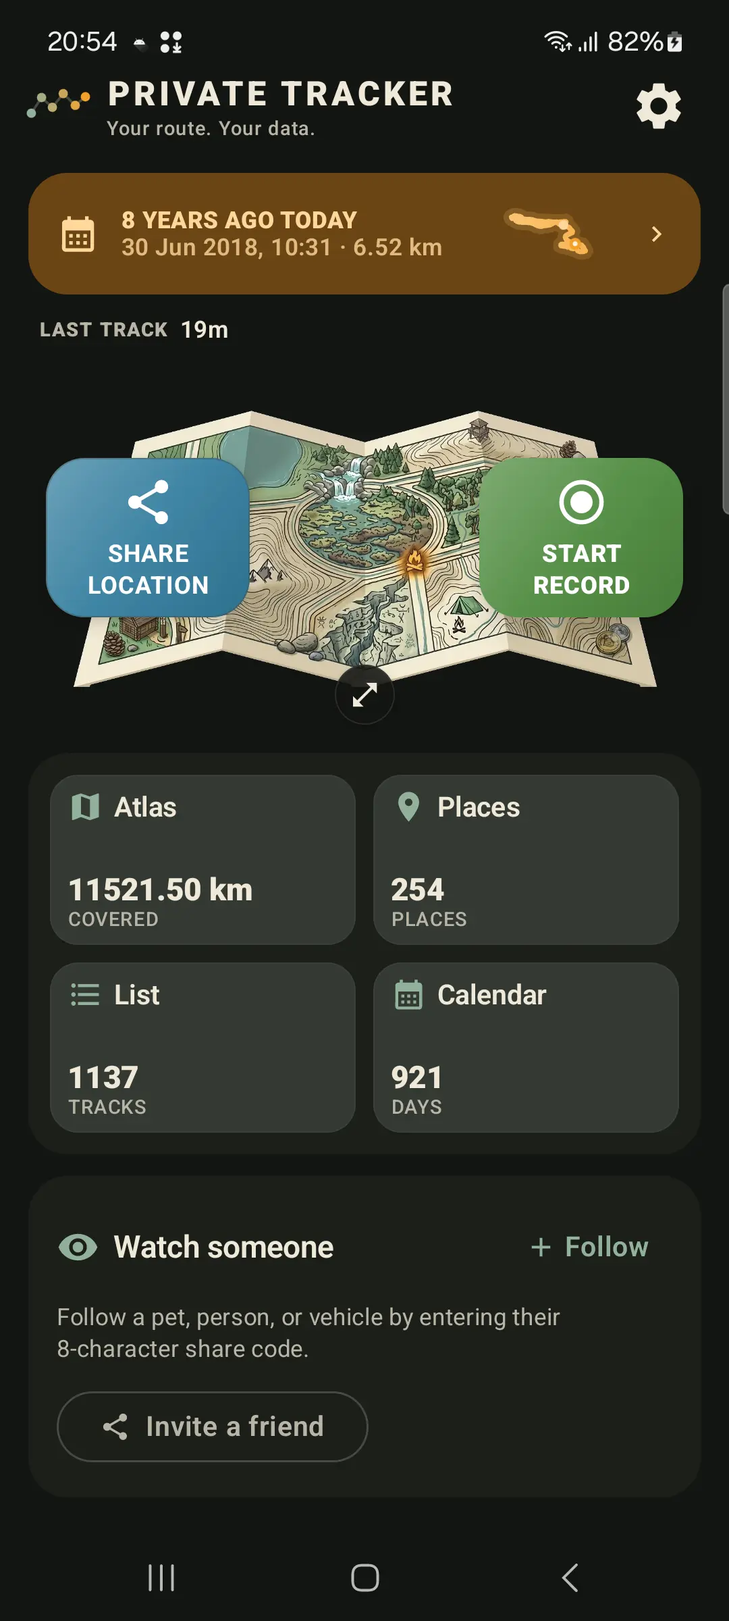
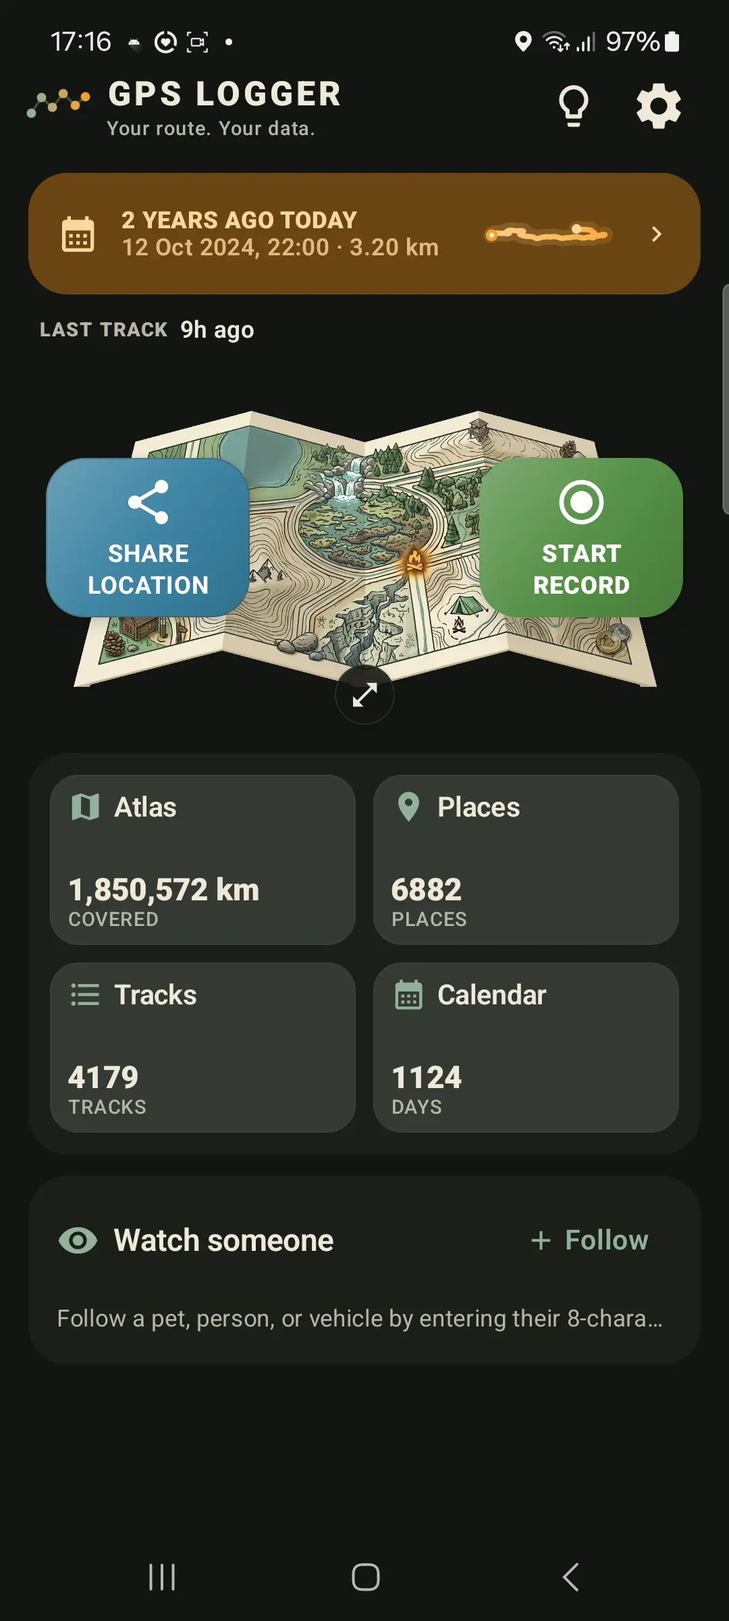
Homepage stills: localized home, day, atlas, places, and July
Day Story is the Tokyo day with photos on the route. The July calendar
replaces the recording frame on the homepages; recording guides and live
share keep the shared shots. The empty Watch map stays off the site.

diff --git a/hi/index.html b/hi/index.html
@@ -130,12 +130,13 @@
         </div>
         <div class="hero-visual">
           <div class="hero-phone">
-            <img src="../assets/ss-day-story.webp" alt="GPS Logger daily route timeline" width="1080" height="2400">
+            <img src="../assets/hi/ss-day-story.webp" alt="GPS Logger Day Story, Tokyo के एक दिन की रूट, stops और फ़ोटो" width="1080" height="2400">
             <div class="proof">
               <p>Day Story</p>
               <ul>
                 <li>Map + daily timeline</li>
                 <li>Stops, moves, moments</li>
+                <li>रूट पर फ़ोटो</li>
                 <li>Saved tracks से बना</li>
               </ul>
             </div>
@@ -278,12 +279,21 @@
           <p class="eyebrow">ऐप की असली स्क्रीन</p>
           <h2 class="display">रोज़मर्रा की ज़िंदगी में GPS Logger पर एक नज़दीकी नज़र।</h2>
         </div>
+        <figure class="device device-lead" data-reveal>
+          <div class="frame">
+            <picture>
+              <source media="(prefers-reduced-motion: reduce)" srcset="../assets/globe-hike-poster.webp">
+              <img src="../assets/globe-hike.webp" alt="ग्लोब सेव की गई यात्राओं से घूमता है, एक रिकॉर्ड की हाइक खोलता है, और स्थिति उसकी ऊँचाई के साथ चलती है" width="540" height="1200" loading="lazy" decoding="async">
+            </picture>
+          </div>
+          <figcaption>ग्लोब — घुमाकर हाइक तक, फिर उसकी चढ़ाई</figcaption>
+        </figure>
         <div class="screens">
-          <figure class="device" data-reveal><div class="frame"><img src="../assets/ss-home.webp" alt="होम स्क्रीन, रिकॉर्ड करने के लिए तैयार" loading="lazy"></div><figcaption>होम — रिकॉर्ड करने के लिए एक टैप</figcaption></figure>
-          <figure class="device" data-reveal><div class="frame"><img src="../assets/ss-recording.webp" alt="लाइव मैप के साथ एक्टिव रिकॉर्डिंग" loading="lazy"></div><figcaption>रिकॉर्डिंग — लाइव मैप और आँकड़े</figcaption></figure>
-          <figure class="device" data-reveal><div class="frame"><img src="../assets/ss-day-story.webp" alt="Daily route timeline" loading="lazy"></div><figcaption>Day Story — stops और movements</figcaption></figure>
-          <figure class="device" data-reveal><div class="frame"><img src="../assets/ss-atlas.webp" alt="लाइफटाइम जर्नी मैप" loading="lazy"></div><figcaption>एटलस — जीवन भर के रूट</figcaption></figure>
-          <figure class="device" data-reveal><div class="frame"><img src="../assets/ss-places.webp" alt="जगहों का एटलस" loading="lazy"></div><figcaption>जगहें — वे स्थान जहाँ आप बार-बार जाते हैं</figcaption></figure>
+          <figure class="device" data-reveal><div class="frame"><img src="../assets/hi/ss-home.webp" alt="होम स्क्रीन, रिकॉर्ड करने के लिए तैयार" loading="lazy"></div><figcaption>होम — रिकॉर्ड करने के लिए एक टैप</figcaption></figure>
+          <figure class="device" data-reveal><div class="frame"><img src="../assets/hi/ss-calendar.webp" alt="जुलाई का कैलेंडर, गतिविधि के रंग और देश के झंडे" loading="lazy"></div><figcaption>कैलेंडर — एक महीने के रूट</figcaption></figure>
+          <figure class="device" data-reveal><div class="frame"><img src="../assets/hi/ss-day-story.webp" alt="Tokyo Day Story, रूट, stops और फ़ोटो" loading="lazy"></div><figcaption>Day Story — रूट पर फ़ोटो</figcaption></figure>
+          <figure class="device" data-reveal><div class="frame"><img src="../assets/hi/ss-atlas.webp" alt="लाइफटाइम जर्नी मैप" loading="lazy"></div><figcaption>एटलस — जीवन भर के रूट</figcaption></figure>
+          <figure class="device" data-reveal><div class="frame"><img src="../assets/hi/ss-places.webp" alt="देशों की सूची, ऊपर Japan, Ireland और United Kingdom" loading="lazy"></div><figcaption>जगहें — देश जहाँ आप लौटते हैं</figcaption></figure>
           <figure class="device" data-reveal><div class="frame"><img src="../assets/ss-share.webp" alt="लाइव शेयरिंग कंट्रोल्स" loading="lazy"></div><figcaption>लाइव शेयरिंग — एक कोड जिसे आप कंट्रोल करते हैं</figcaption></figure>
         </div>
       </div>

diff --git a/ja/index.html b/ja/index.html
@@ -131,12 +131,13 @@
         </div>
         <div class="hero-visual">
           <div class="hero-phone">
-            <img src="../assets/ss-day-story.webp" alt="GPS Logger daily route timeline" width="1080" height="2400">
+            <img src="../assets/ja/ss-day-story.webp" alt="東京のある日の1日の記録。ルート、停止、ルート上の写真" width="1080" height="2400">
             <div class="proof">
               <p>1日の記録</p>
               <ul>
                 <li>地図 + 日別タイムライン</li>
                 <li>停止・移動・出来事</li>
+                <li>ルート上の写真</li>
                 <li>保存トラックから作成</li>
               </ul>
             </div>
@@ -284,12 +285,21 @@
           <p class="eyebrow">実際のアプリ画面</p>
           <h2 class="display">日常で使うGPS Loggerの様子。</h2>
         </div>
+        <figure class="device device-lead" data-reveal>
+          <div class="frame">
+            <picture>
+              <source media="(prefers-reduced-motion: reduce)" srcset="../assets/globe-hike-poster.webp">
+              <img src="../assets/globe-hike.webp" alt="地球儀が保存した旅を回り、記録したハイキングを開き、位置がその標高に沿って動く" width="540" height="1200" loading="lazy" decoding="async">
+            </picture>
+          </div>
+          <figcaption>地球儀 — 回してハイキングへ、それからその上り</figcaption>
+        </figure>
         <div class="screens">
-          <figure class="device" data-reveal><div class="frame"><img src="../assets/ss-home.webp" alt="ホーム画面、記録準備完了" loading="lazy"></div><figcaption>ホーム — 1タップで記録開始</figcaption></figure>
-          <figure class="device" data-reveal><div class="frame"><img src="../assets/ss-recording.webp" alt="記録中のライブマップ" loading="lazy"></div><figcaption>記録中 — ライブマップと統計</figcaption></figure>
-          <figure class="device" data-reveal><div class="frame"><img src="../assets/ss-day-story.webp" alt="Daily route timeline" loading="lazy"></div><figcaption>1日の記録 — 停止と移動</figcaption></figure>
-          <figure class="device" data-reveal><div class="frame"><img src="../assets/ss-atlas.webp" alt="ライフタイム・ジャーニー・マップ" loading="lazy"></div><figcaption>アトラス — 生涯のルート</figcaption></figure>
-          <figure class="device" data-reveal><div class="frame"><img src="../assets/ss-places.webp" alt="お気に入りの場所のアトラス" loading="lazy"></div><figcaption>場所 — 繰り返し訪れるスポット</figcaption></figure>
+          <figure class="device" data-reveal><div class="frame"><img src="../assets/ja/ss-home.webp" alt="ホーム画面、記録準備完了" loading="lazy"></div><figcaption>ホーム — 1タップで記録開始</figcaption></figure>
+          <figure class="device" data-reveal><div class="frame"><img src="../assets/ja/ss-calendar.webp" alt="7月のカレンダー。アクティビティの色と国旗" loading="lazy"></div><figcaption>カレンダー — ひと月のルート</figcaption></figure>
+          <figure class="device" data-reveal><div class="frame"><img src="../assets/ja/ss-day-story.webp" alt="東京の1日の記録。ルート、停止、写真" loading="lazy"></div><figcaption>1日の記録 — ルート上の写真</figcaption></figure>
+          <figure class="device" data-reveal><div class="frame"><img src="../assets/ja/ss-atlas.webp" alt="ライフタイム・ジャーニー・マップ" loading="lazy"></div><figcaption>アトラス — 生涯のルート</figcaption></figure>
+          <figure class="device" data-reveal><div class="frame"><img src="../assets/ja/ss-places.webp" alt="訪れた国。先頭は日本、アイルランド、イギリス" loading="lazy"></div><figcaption>場所 — 何度も訪れる国</figcaption></figure>
           <figure class="device" data-reveal><div class="frame"><img src="../assets/ss-share.webp" alt="ライブ共有コントロール" loading="lazy"></div><figcaption>ライブ共有 — あなたが管理するコード</figcaption></figure>
         </div>
       </div>

diff --git a/pt/index.html b/pt/index.html
@@ -131,12 +131,13 @@
         </div>
         <div class="hero-visual">
           <div class="hero-phone">
-            <img src="../assets/ss-day-story.webp" alt="GPS Logger daily route timeline" width="1080" height="2400">
+            <img src="../assets/pt/ss-day-story.webp" alt="História do dia do GPS Logger em Tóquio, com a rota, as paradas e as fotos" width="1080" height="2400">
             <div class="proof">
               <p>História do dia</p>
               <ul>
                 <li>Mapa + linha do tempo</li>
                 <li>Paradas, trajetos, momentos</li>
+                <li>Fotos na rota</li>
                 <li>Dos trajetos salvos</li>
               </ul>
             </div>
@@ -285,12 +286,21 @@
           <p class="eyebrow">Ecrãs reais da app</p>
           <h2 class="display">Um olhar mais atento ao GPS Logger no dia a dia.</h2>
         </div>
+        <figure class="device device-lead" data-reveal>
+          <div class="frame">
+            <picture>
+              <source media="(prefers-reduced-motion: reduce)" srcset="../assets/globe-hike-poster.webp">
+              <img src="../assets/globe-hike.webp" alt="O globo gira pelos trajetos salvos, abre uma trilha gravada e a posição percorre o perfil de elevação" width="540" height="1200" loading="lazy" decoding="async">
+            </picture>
+          </div>
+          <figcaption>Globo — gire até uma trilha, depois a subida</figcaption>
+        </figure>
         <div class="screens">
-          <figure class="device" data-reveal><div class="frame"><img src="../assets/ss-home.webp" alt="Tela inicial, pronto para gravar" loading="lazy"></div><figcaption>Início — um toque para gravar</figcaption></figure>
-          <figure class="device" data-reveal><div class="frame"><img src="../assets/ss-recording.webp" alt="Gravação ativa com mapa em tempo real" loading="lazy"></div><figcaption>A gravar — mapa e estatísticas em tempo real</figcaption></figure>
-          <figure class="device" data-reveal><div class="frame"><img src="../assets/ss-day-story.webp" alt="Daily route timeline" loading="lazy"></div><figcaption>História do dia — paradas e movimentos</figcaption></figure>
-          <figure class="device" data-reveal><div class="frame"><img src="../assets/ss-atlas.webp" alt="Mapa de jornada de uma vida inteira" loading="lazy"></div><figcaption>Atlas — uma vida inteira de rotas</figcaption></figure>
-          <figure class="device" data-reveal><div class="frame"><img src="../assets/ss-places.webp" alt="Atlas de lugares" loading="lazy"></div><figcaption>Lugares — locais onde você volta sempre</figcaption></figure>
+          <figure class="device" data-reveal><div class="frame"><img src="../assets/pt/ss-home.webp" alt="Tela inicial, pronto para gravar" loading="lazy"></div><figcaption>Início — um toque para gravar</figcaption></figure>
+          <figure class="device" data-reveal><div class="frame"><img src="../assets/pt/ss-calendar.webp" alt="Calendário de julho com dias coloridos e bandeiras dos países" loading="lazy"></div><figcaption>Calendário — um mês de rotas</figcaption></figure>
+          <figure class="device" data-reveal><div class="frame"><img src="../assets/pt/ss-day-story.webp" alt="História do dia em Tóquio, com a rota, as paradas e as fotos" loading="lazy"></div><figcaption>História do dia — fotos na rota</figcaption></figure>
+          <figure class="device" data-reveal><div class="frame"><img src="../assets/pt/ss-atlas.webp" alt="Mapa de jornada de uma vida inteira" loading="lazy"></div><figcaption>Atlas — uma vida inteira de rotas</figcaption></figure>
+          <figure class="device" data-reveal><div class="frame"><img src="../assets/pt/ss-places.webp" alt="Países visitados, com Japão, Irlanda e Reino Unido no topo" loading="lazy"></div><figcaption>Lugares — países a que você volta</figcaption></figure>
           <figure class="device" data-reveal><div class="frame"><img src="../assets/ss-share.webp" alt="Controles de compartilhamento em tempo real" loading="lazy"></div><figcaption>Compartilhamento em tempo real — um código que você controla</figcaption></figure>
         </div>
       </div>

diff --git a/es/index.html b/es/index.html
@@ -131,12 +131,13 @@
         </div>
         <div class="hero-visual">
           <div class="hero-phone">
-            <img src="../assets/ss-day-story.webp" alt="GPS Logger daily route timeline" width="1080" height="2400">
+            <img src="../assets/es/ss-day-story.webp" alt="Historia del día de GPS Logger en Tokio, con la ruta, las paradas y las fotos" width="1080" height="2400">
             <div class="proof">
               <p>Historia del día</p>
               <ul>
                 <li>Mapa + timeline diaria</li>
                 <li>Paradas, rutas, momentos</li>
+                <li>Fotos en la ruta</li>
                 <li>Desde tracks guardados</li>
               </ul>
             </div>
@@ -321,12 +322,21 @@
           <p class="eyebrow">Pantallas reales de la aplicación</p>
           <h2 class="display">Un vistazo más cercano a GPS Logger en el uso diario.</h2>
         </div>
+        <figure class="device device-lead" data-reveal>
+          <div class="frame">
+            <picture>
+              <source media="(prefers-reduced-motion: reduce)" srcset="../assets/globe-hike-poster.webp">
+              <img src="../assets/globe-hike.webp" alt="El globo gira por los viajes guardados, abre una caminata grabada y la posición se mueve por su perfil de elevación" width="540" height="1200" loading="lazy" decoding="async">
+            </picture>
+          </div>
+          <figcaption>Globo — gira hasta una caminata, luego su subida</figcaption>
+        </figure>
         <div class="screens">
-          <figure class="device" data-reveal><div class="frame"><img src="../assets/ss-home.webp" alt="Pantalla de inicio, lista para registrar" loading="lazy"></div><figcaption>Inicio — un toque para registrar</figcaption></figure>
-          <figure class="device" data-reveal><div class="frame"><img src="../assets/ss-recording.webp" alt="Grabación activa con mapa en vivo" loading="lazy"></div><figcaption>Grabando — mapa en vivo y estadísticas</figcaption></figure>
-          <figure class="device" data-reveal><div class="frame"><img src="../assets/ss-day-story.webp" alt="Daily route timeline" loading="lazy"></div><figcaption>Historia del día — paradas y movimientos</figcaption></figure>
-          <figure class="device" data-reveal><div class="frame"><img src="../assets/ss-atlas.webp" alt="Mapa de viajes de por vida" loading="lazy"></div><figcaption>Atlas — toda una vida de rutas</figcaption></figure>
-          <figure class="device" data-reveal><div class="frame"><img src="../assets/ss-places.webp" alt="Atlas de lugares" loading="lazy"></div><figcaption>Lugares — sitios a los que vuelves</figcaption></figure>
+          <figure class="device" data-reveal><div class="frame"><img src="../assets/es/ss-home.webp" alt="Pantalla de inicio, lista para registrar" loading="lazy"></div><figcaption>Inicio — un toque para registrar</figcaption></figure>
+          <figure class="device" data-reveal><div class="frame"><img src="../assets/es/ss-calendar.webp" alt="Calendario de julio con días en color y banderas de país" loading="lazy"></div><figcaption>Calendario — un mes de rutas</figcaption></figure>
+          <figure class="device" data-reveal><div class="frame"><img src="../assets/es/ss-day-story.webp" alt="Historia del día en Tokio, con la ruta, las paradas y las fotos" loading="lazy"></div><figcaption>Historia del día — fotos en la ruta</figcaption></figure>
+          <figure class="device" data-reveal><div class="frame"><img src="../assets/es/ss-atlas.webp" alt="Mapa de viajes de por vida" loading="lazy"></div><figcaption>Atlas — toda una vida de rutas</figcaption></figure>
+          <figure class="device" data-reveal><div class="frame"><img src="../assets/es/ss-places.webp" alt="Países visitados, con Japón, Irlanda y el Reino Unido arriba" loading="lazy"></div><figcaption>Lugares — países a los que vuelves</figcaption></figure>
           <figure class="device" data-reveal><div class="frame"><img src="../assets/ss-share.webp" alt="Controles para compartir en vivo" loading="lazy"></div><figcaption>Compartir en vivo — tu código</figcaption></figure>
         </div>
       </div>

diff --git a/fr/index.html b/fr/index.html
@@ -131,12 +131,13 @@
         </div>
         <div class="hero-visual">
           <div class="hero-phone">
-            <img src="../assets/ss-day-story.webp" alt="GPS Logger daily route timeline" width="1080" height="2400">
+            <img src="../assets/fr/ss-day-story.webp" alt="Récit du jour GPS Logger à Tokyo, avec le parcours, les arrêts et les photos" width="1080" height="2400">
             <div class="proof">
               <p>Récit du jour</p>
               <ul>
                 <li>Carte + timeline du jour</li>
                 <li>Arrêts, trajets, moments</li>
+                <li>Photos sur le parcours</li>
                 <li>Depuis les traces sauvées</li>
               </ul>
             </div>
@@ -321,12 +322,21 @@
           <p class="eyebrow">Captures d'écran</p>
           <h2 class="display">Un aperçu de GPS Logger au quotidien.</h2>
         </div>
+        <figure class="device device-lead" data-reveal>
+          <div class="frame">
+            <picture>
+              <source media="(prefers-reduced-motion: reduce)" srcset="../assets/globe-hike-poster.webp">
+              <img src="../assets/globe-hike.webp" alt="Le globe tourne à travers les trajets enregistrés, ouvre une randonnée, puis la position suit son profil d’altitude" width="540" height="1200" loading="lazy" decoding="async">
+            </picture>
+          </div>
+          <figcaption>Globe — un tour jusqu’à une randonnée, puis sa montée</figcaption>
+        </figure>
         <div class="screens">
-          <figure class="device" data-reveal><div class="frame"><img src="../assets/ss-home.webp" alt="Écran d'accueil, prêt à enregistrer" loading="lazy"></div><figcaption>Accueil — un clic pour enregistrer</figcaption></figure>
-          <figure class="device" data-reveal><div class="frame"><img src="../assets/ss-recording.webp" alt="Enregistrement actif avec carte en direct" loading="lazy"></div><figcaption>Enregistrement — carte et stats</figcaption></figure>
-          <figure class="device" data-reveal><div class="frame"><img src="../assets/ss-day-story.webp" alt="Daily route timeline" loading="lazy"></div><figcaption>Récit du jour — arrêts et déplacements</figcaption></figure>
-          <figure class="device" data-reveal><div class="frame"><img src="../assets/ss-atlas.webp" alt="Carte de voyage à vie" loading="lazy"></div><figcaption>Atlas — toute une vie de parcours</figcaption></figure>
-          <figure class="device" data-reveal><div class="frame"><img src="../assets/ss-places.webp" alt="Atlas des lieux" loading="lazy"></div><figcaption>Lieux — les endroits où vous revenez</figcaption></figure>
+          <figure class="device" data-reveal><div class="frame"><img src="../assets/fr/ss-home.webp" alt="Écran d'accueil, prêt à enregistrer" loading="lazy"></div><figcaption>Accueil — un clic pour enregistrer</figcaption></figure>
+          <figure class="device" data-reveal><div class="frame"><img src="../assets/fr/ss-calendar.webp" alt="Calendrier de juillet, jours colorés et drapeaux des pays" loading="lazy"></div><figcaption>Calendrier — un mois de parcours</figcaption></figure>
+          <figure class="device" data-reveal><div class="frame"><img src="../assets/fr/ss-day-story.webp" alt="Récit du jour à Tokyo, avec le parcours, les arrêts et les photos" loading="lazy"></div><figcaption>Récit du jour — les photos du parcours</figcaption></figure>
+          <figure class="device" data-reveal><div class="frame"><img src="../assets/fr/ss-atlas.webp" alt="Carte de voyage à vie" loading="lazy"></div><figcaption>Atlas — toute une vie de parcours</figcaption></figure>
+          <figure class="device" data-reveal><div class="frame"><img src="../assets/fr/ss-places.webp" alt="Pays visités, Japon, Irlande et Royaume-Uni en tête" loading="lazy"></div><figcaption>Lieux — les pays où vous revenez</figcaption></figure>
           <figure class="device" data-reveal><div class="frame"><img src="../assets/ss-share.webp" alt="Contrôles de partage en direct" loading="lazy"></div><figcaption>Partage — votre code</figcaption></figure>
         </div>
       </div>

diff --git a/de/index.html b/de/index.html
@@ -143,12 +143,13 @@
         </div>
         <div class="hero-visual">
           <div class="hero-phone">
-            <img src="../assets/ss-day-story.webp" alt="GPS Logger daily route timeline" width="1080" height="2400">
+            <img src="../assets/de/ss-day-story.webp" alt="GPS Logger Tagesverlauf eines Tokio-Tags mit Route, Stopps und Fotos" width="1080" height="2400">
             <div class="proof">
               <p>Tagesverlauf</p>
               <ul>
                 <li>Karte + Timeline</li>
                 <li>Stopps, Wege, Momente</li>
+                <li>Fotos auf der Route</li>
                 <li>Aus gespeicherten Tracks</li>
               </ul>
             </div>
@@ -333,12 +334,21 @@
           <p class="eyebrow">Echte App-Screens</p>
           <h2 class="display">Ein Blick in den GPS Logger im Alltag.</h2>
         </div>
+        <figure class="device device-lead" data-reveal>
+          <div class="frame">
+            <picture>
+              <source media="(prefers-reduced-motion: reduce)" srcset="../assets/globe-hike-poster.webp">
+              <img src="../assets/globe-hike.webp" alt="Der Globus dreht sich durch gespeicherte Fahrten, öffnet eine aufgezeichnete Wanderung, und die Position wandert am Höhenprofil entlang" width="540" height="1200" loading="lazy" decoding="async">
+            </picture>
+          </div>
+          <figcaption>Globus — drehen, dann die Wanderung und ihr Anstieg</figcaption>
+        </figure>
         <div class="screens">
-          <figure class="device" data-reveal><div class="frame"><img src="../assets/ss-home.webp" alt="Startbildschirm, bereit zur Aufnahme" loading="lazy"></div><figcaption>Home — Ein Tipp zum Starten</figcaption></figure>
-          <figure class="device" data-reveal><div class="frame"><img src="../assets/ss-recording.webp" alt="Aktive Aufnahme mit Live-Karte" loading="lazy"></div><figcaption>Aufnahme — Karte &amp; Statistiken</figcaption></figure>
-          <figure class="device" data-reveal><div class="frame"><img src="../assets/ss-day-story.webp" alt="Daily route timeline" loading="lazy"></div><figcaption>Tagesverlauf — Stopps & Bewegungen</figcaption></figure>
-          <figure class="device" data-reveal><div class="frame"><img src="../assets/ss-atlas.webp" alt="Lebenslanger Atlas der Wege" loading="lazy"></div><figcaption>Atlas — Ein Leben voller Wege</figcaption></figure>
-          <figure class="device" data-reveal><div class="frame"><img src="../assets/ss-places.webp" alt="Orte-Atlas" loading="lazy"></div><figcaption>Orte — Spots, die du oft besuchst</figcaption></figure>
+          <figure class="device" data-reveal><div class="frame"><img src="../assets/de/ss-home.webp" alt="Startbildschirm, bereit zur Aufnahme" loading="lazy"></div><figcaption>Home — Ein Tipp zum Starten</figcaption></figure>
+          <figure class="device" data-reveal><div class="frame"><img src="../assets/de/ss-calendar.webp" alt="Kalender für Juli mit farbigen Tagen und Länderflaggen" loading="lazy"></div><figcaption>Kalender — ein Monat voller Wege</figcaption></figure>
+          <figure class="device" data-reveal><div class="frame"><img src="../assets/de/ss-day-story.webp" alt="Tagesverlauf eines Tokio-Tags mit Route, Stopps und Fotos" loading="lazy"></div><figcaption>Tagesverlauf — Fotos auf der Route</figcaption></figure>
+          <figure class="device" data-reveal><div class="frame"><img src="../assets/de/ss-atlas.webp" alt="Lebenslanger Atlas der Wege" loading="lazy"></div><figcaption>Atlas — Ein Leben voller Wege</figcaption></figure>
+          <figure class="device" data-reveal><div class="frame"><img src="../assets/de/ss-places.webp" alt="Besuchte Länder, oben Japan, Irland und das Vereinigte Königreich" loading="lazy"></div><figcaption>Orte — Länder, in die du zurückkehrst</figcaption></figure>
           <figure class="device" data-reveal><div class="frame"><img src="../assets/ss-share.webp" alt="Live-Sharing-Steuerung" loading="lazy"></div><figcaption>Live-Teilen — Dein Code</figcaption></figure>
         </div>
       </div>

diff --git a/hi/google-timeline-alternative-android.html b/hi/google-timeline-alternative-android.html
@@ -57,7 +57,7 @@
     <h1>Android route history के लिए private Google Timeline alternative</h1>
     <p class="lead">अगर आप याद रखना चाहते हैं कि आप कहां गए थे, लेकिन हर trip को cloud profile से नहीं जोड़ना चाहते, तो GPS Logger एक deliberate model देता है: route start करें, phone पर save करें, tracked day पर tap करके stops और movements देखें, और जरूरत होने पर export करें. Google Timeline export साथ लाएँ, तो metro, flights और cable car अपने नाम के साथ रहते हैं।</p>
     <h2>Quick answer</h2><p>GPS Logger Android के लिए private route-history app है. यह user-started GPS recordings, daily route timeline, personal atlas, GPX/KML export और no account workflow के लिए सही है. यह silent always-on log नहीं है; recording कब शुरू और बंद करनी है, यह आप तय करते हैं.</p>
-    <figure class="article-shot"><img src="../assets/ss-day-story.webp" alt="GPS Logger daily route timeline, stops, distance और moving time दिखाते हुए" loading="lazy"><figcaption>Day Story एक tracked day को map plus readable timeline में बदलता है: walks, stops और saved places.</figcaption></figure>
+    <figure class="article-shot"><img src="../assets/hi/ss-day-story.webp" alt="GPS Logger daily route timeline, stops, distance और moving time दिखाते हुए" loading="lazy"><figcaption>Day Story एक tracked day को map plus readable timeline में बदलता है: walks, stops और saved places.</figcaption></figure>
     <h2>Automatic location history से आगे क्यों देखें</h2><p>Automatic location history सुविधाजनक हो सकती है, लेकिन cloud dependence, unclear export, missing trips या device migration risk ला सकती है. कई लोगों के लिए बेहतर तरीका everything record करना नहीं, बल्कि important routes save करके files portable रखना है.</p>
     <h2>Timeline जैसा हिस्सा: Day Story</h2><p>Day Story daily memory view है. Calendar में recorded day पर tap करें और GPS Logger saved tracks से virtual timeline बनाता है: movements, stops, named places, moving distance, moving time और moments. यह read-only view है, इसलिए यह tracks को split, rewrite या upload नहीं करता.</p>
     <p>इसलिए यह travel days, hikes, field visits, city walks, commutes और रोज़ की route memory के लिए काम आता है: सिर्फ map पर एक line नहीं, बल्कि पूरे दिन की shape.</p><p>दिन की फ़ोटो जोड़ें और वे उस stop या walk पर दिखती हैं जहाँ आपने उन्हें खींचा। GPS के बिना फ़ोटो भी अपनी जगह पा लेती है, क्योंकि जगह capture time से तय होती है। तस्वीरें gallery में रहती हैं। ऐप फ़ोन पर एक link रखता है, और कुछ upload या बदला नहीं जाता।</p>

diff --git a/ja/google-timeline-alternative-android.html b/ja/google-timeline-alternative-android.html
@@ -60,7 +60,7 @@
     <h1>Androidのルート履歴に使えるプライベートなGoogle Timeline代替</h1>
     <p class="lead">どこに行ったかを覚えておきたい。でもすべての移動をクラウドのプロフィールに結びつけたくない。GPS Loggerなら、自分でルートを開始し、端末に保存し、記録済みの日をタップして停止と移動を見返し、必要な時に書き出せます。 Google Timelineの書き出しを持ってくると、地下鉄、フライト、ロープウェイの名前はそのまま残ります。</p>
     <h2>短く言うと</h2><p>GPS LoggerはAndroid向けのプライベートなルート履歴アプリです。自分で開始するGPS記録、日別タイムライン、個人アトラス、GPX/KML書き出し、アカウント不要の運用に向いています。常時こっそり記録するアプリではなく、開始と停止は自分で決めます。</p>
-    <figure class="article-shot"><img src="../assets/ss-day-story.webp" alt="停止、移動距離、移動時間を示すGPS Loggerの日別ルートタイムライン" loading="lazy"><figcaption>1日の記録は、記録済みの日を地図と読みやすいタイムラインに変えます。移動、停止、保存した場所を確認できます。</figcaption></figure>
+    <figure class="article-shot"><img src="../assets/ja/ss-day-story.webp" alt="停止、移動距離、移動時間を示すGPS Loggerの日別ルートタイムライン" loading="lazy"><figcaption>1日の記録は、記録済みの日を地図と読みやすいタイムラインに変えます。移動、停止、保存した場所を確認できます。</figcaption></figure>
     <h2>自動の位置履歴だけに頼らない理由</h2><p>自動の位置履歴は便利ですが、クラウド依存、分かりにくい書き出し、抜け落ちた移動、端末移行の不安がつきものです。すべてを記録するより、重要なルートを選んで記録し、ファイルとして持てるほうが合う人も多いです。</p>
     <h2>Timelineらしい部分: 1日の記録</h2><p>1日の記録は日別の思い出ビューです。カレンダーで記録済みの日をタップすると、保存済みトラックから移動、停止、名前付きの場所、移動距離、移動時間、出来事の仮想タイムラインを作ります。表示用のビューなので、トラックを分割・変更・アップロードしません。</p>
     <p>そのため旅行の日、ハイキング、現地作業、街歩き、通勤、日々のルートの記憶に役立ちます。地図上の一本の線だけでなく、その日の形が分かります。</p><p>その日の写真を足すと、撮った停止や歩きの上に現れます。GPSのない写真も場所を見つけます。置く基準は撮影時刻だからです。画像はギャラリーに残ります。アプリはスマホ上にリンクを持つだけで、アップロードも変更もしません。</p>

diff --git a/index.html b/index.html
@@ -147,12 +147,13 @@
         </div>
         <div class="hero-visual">
           <div class="hero-phone">
-            <img src="assets/ss-day-story.webp" alt="GPS Logger daily route timeline showing walks, stops, distance and moving time" width="1080" height="2400">
+            <img src="assets/ss-day-story.webp" alt="GPS Logger Day Story for a Tokyo day, with the route, stops and photos along the walk" width="1080" height="2400">
             <div class="proof">
               <p>Day Story</p>
               <ul>
                 <li>Map plus daily timeline</li>
                 <li>Stops, moves and moments</li>
+                <li>Photos on the day's route</li>
                 <li>Built from saved tracks</li>
               </ul>
             </div>
@@ -352,10 +353,10 @@
         </figure>
         <div class="screens">
           <figure class="device" data-reveal><div class="frame"><img src="assets/ss-home.webp" alt="Home screen, ready to record" loading="lazy"></div><figcaption>Home — one tap to record</figcaption></figure>
-          <figure class="device" data-reveal><div class="frame"><img src="assets/ss-recording.webp" alt="Recording map on OSM Topo with OpenStreetMap, Topo and Cycle in the layer menu" loading="lazy"></div><figcaption>Recording — OSM Topo, Cycle or street</figcaption></figure>
-          <figure class="device" data-reveal><div class="frame"><img src="assets/ss-day-story.webp" alt="Daily route timeline with stops and movements" loading="lazy"></div><figcaption>Day Story — stops &amp; movements</figcaption></figure>
+          <figure class="device" data-reveal><div class="frame"><img src="assets/ss-calendar.webp" alt="July calendar of recorded days, coloured by activity, with country flags" loading="lazy"></div><figcaption>Calendar — a month of routes</figcaption></figure>
+          <figure class="device" data-reveal><div class="frame"><img src="assets/ss-day-story.webp" alt="Day Story for a Tokyo day, with the route, stops and photos" loading="lazy"></div><figcaption>Day Story — photos on the day's route</figcaption></figure>
           <figure class="device" data-reveal><div class="frame"><img src="assets/ss-atlas.webp" alt="Lifetime journey map" loading="lazy"></div><figcaption>Atlas — a lifetime of routes</figcaption></figure>
-          <figure class="device" data-reveal><div class="frame"><img src="assets/ss-places.webp" alt="Places atlas" loading="lazy"></div><figcaption>Places — spots you return to</figcaption></figure>
+          <figure class="device" data-reveal><div class="frame"><img src="assets/ss-places.webp" alt="Countries visited, with Japan, Ireland and the United Kingdom at the top" loading="lazy"></div><figcaption>Places — countries you come back to</figcaption></figure>
           <figure class="device" data-reveal><div class="frame"><img src="assets/ss-share.webp" alt="Live share controls" loading="lazy"></div><figcaption>Live share — a code you control</figcaption></figure>
         </div>
       </div>

diff --git a/fr/google-timeline-alternative-android.html b/fr/google-timeline-alternative-android.html
@@ -57,7 +57,7 @@
     <h1>Alternative privée à Google Timeline pour l’historique de trajets Android</h1>
     <p class="lead">Si vous voulez vous souvenir de vos trajets sans rattacher chaque déplacement à un profil cloud, GPS Logger propose un modèle volontaire : démarrez un trajet, gardez-le sur votre téléphone, touchez un jour suivi pour voir arrêts et déplacements, puis exportez quand vous en avez besoin. Emportez un export Google Timeline, et le métro, les vols et les téléphériques gardent leur nom.</p>
     <h2>Réponse rapide</h2><p>GPS Logger est une app privée d’historique de trajets pour Android. Elle convient si vous voulez des enregistrements GPS démarrés par vous, une timeline quotidienne, un atlas personnel, l’export GPX/KML et aucun compte. Ce n’est pas un journal silencieux toujours actif ; vous décidez quand l’enregistrement commence et s’arrête.</p>
-    <figure class="article-shot"><img src="../assets/ss-day-story.webp" alt="Timeline quotidienne de trajets GPS Logger avec arrêts, distance et durée en mouvement" loading="lazy"><figcaption>Récit du jour transforme une journée suivie en carte avec une timeline lisible de trajets, arrêts et lieux enregistrés.</figcaption></figure>
+    <figure class="article-shot"><img src="../assets/fr/ss-day-story.webp" alt="Timeline quotidienne de trajets GPS Logger avec arrêts, distance et durée en mouvement" loading="lazy"><figcaption>Récit du jour transforme une journée suivie en carte avec une timeline lisible de trajets, arrêts et lieux enregistrés.</figcaption></figure>
     <h2>Pourquoi chercher au-delà de l’historique automatique</h2><p>L’historique automatique peut être pratique, mais il implique souvent dépendance au cloud, export peu clair, trajets manquants ou risque lors d’une migration. Pour beaucoup, la bonne réponse n’est pas de tout enregistrer, mais de garder les trajets importants dans des fichiers portables.</p>
     <h2>La partie façon Timeline : Récit du jour</h2><p>Récit du jour est la vue mémoire quotidienne. Touchez un jour enregistré dans le calendrier et GPS Logger construit une timeline virtuelle depuis vos traces sauvegardées : déplacements, arrêts, lieux nommés, distance et durée en mouvement, moments. C’est une vue ; elle ne découpe, ne réécrit et ne téléverse pas vos traces.</p>
     <p>Cela la rend utile pour les jours de voyage, les randonnées, les visites de terrain, les balades en ville, les trajets quotidiens et la mémoire de parcours du quotidien : pas seulement une ligne sur une carte, mais la forme de la journée.</p><p>Ajoutez les photos de la journée et elles apparaissent à l’arrêt ou sur la marche où vous les avez prises. Une photo sans GPS trouve quand même sa place, parce que le placement utilise l’heure de la prise. Les images restent dans votre galerie. L’app garde un lien sur le téléphone, et rien n’est téléversé ni modifié.</p>

diff --git a/hi/import-gpx-files-android.html b/hi/import-gpx-files-android.html
@@ -67,7 +67,7 @@
       <p class="lead">क्या वर्षों के GPX ट्रैक किसी फ़ोल्डर या पुराने ऐप में पड़े हैं? GPS Logger उन्हें Android पर एक ही बार में इंपोर्ट कर लेता है — एक साथ कई <code>.gpx</code> फ़ाइलें चुनें, या इसे एक ZIP बैकअप दें और अंदर का हर रूट आपके इतिहास, कैलेंडर और निजी एटलस में आ जाता है। यह फ्लैट संग्रहों और फ़ोल्डरों में व्यवस्थित संग्रहों दोनों के लिए काम करता है, री-इंपोर्ट सुरक्षित है, और कोई लॉक-इन नहीं है।</p>
       <p>यह इंपोर्ट समय के साथ रिकॉर्ड किए गए GPX ट्रैक (<code>trkpt</code> और <code>time</code>) पढ़ता है। केवल <code>rtept</code> वाले नियोजित रूट और केवल <code>wpt</code> वाले वेपॉइंट की फ़ाइलें समर्थित नहीं हैं।</p>
 
-      <figure class="article-shot"><img src="../assets/ss-atlas.webp" alt="Android पर GPS Logger का लाइफटाइम एटलस मानचित्र, एक साथ कई इंपोर्ट किए गए GPX रूट दिखाते हुए" loading="lazy"><figcaption>इंपोर्ट किए गए रूट आपके लाइफटाइम एटलस, कैलेंडर और स्थानों में जुड़ते हैं — सिर्फ़ एक सपाट फ़ाइल सूची में नहीं।</figcaption></figure>
+      <figure class="article-shot"><img src="../assets/hi/ss-atlas.webp" alt="Android पर GPS Logger का लाइफटाइम एटलस मानचित्र, एक साथ कई इंपोर्ट किए गए GPX रूट दिखाते हुए" loading="lazy"><figcaption>इंपोर्ट किए गए रूट आपके लाइफटाइम एटलस, कैलेंडर और स्थानों में जुड़ते हैं — सिर्फ़ एक सपाट फ़ाइल सूची में नहीं।</figcaption></figure>
 
       <h2>त्वरित उत्तर</h2>
       <p>GPS Logger में <strong>Settings → Import Google Timeline or GPX</strong> खोलें। अपनी <code>.gpx</code> फ़ाइलें या ZIP बैकअप चुनें और इंपोर्ट शुरू करें।</p>

diff --git a/de/google-timeline-alternative-android.html b/de/google-timeline-alternative-android.html
@@ -57,7 +57,7 @@
     <h1>Private Google-Timeline-Alternative für Android-Routenverlauf</h1>
     <p class="lead">Wenn du wissen willst, wo du gewesen bist, aber nicht jede Reise an ein Cloud-Profil binden möchtest, bietet GPS Logger ein bewusstes Modell: Route starten, auf dem Handy speichern, jeden getrackten Tag als Timeline aus Stopps und Bewegungen ansehen und jederzeit exportieren. Nimm einen Google-Timeline-Export mit, und U-Bahn, Flüge und Seilbahnen bleiben beschriftet.</p>
     <h2>Kurzantwort</h2><p>GPS Logger ist eine private Routenverlaufs-App für Android. Sie passt, wenn du gestartete GPS-Aufzeichnungen, eine Tages-Timeline, einen persönlichen Atlas, GPX/KML-Export und kein Konto möchtest. Sie ist kein stilles Immer-an-Protokoll jeder Bewegung; du entscheidest, wann die Aufnahme startet und stoppt.</p>
-    <figure class="article-shot"><img src="../assets/ss-day-story.webp" alt="GPS Logger Tagesverlauf mit Wegen, Stopps, Distanz und Bewegungszeit" loading="lazy"><figcaption>Tagesverlauf macht aus einem getrackten Tag eine Karte plus lesbare Timeline mit Wegen, Stopps und gespeicherten Orten.</figcaption></figure>
+    <figure class="article-shot"><img src="../assets/de/ss-day-story.webp" alt="GPS Logger Tagesverlauf mit Wegen, Stopps, Distanz und Bewegungszeit" loading="lazy"><figcaption>Tagesverlauf macht aus einem getrackten Tag eine Karte plus lesbare Timeline mit Wegen, Stopps und gespeicherten Orten.</figcaption></figure>
     <h2>Warum Menschen über automatische Standortverläufe hinaus suchen</h2><p>Automatische Standortverläufe können bequem sein, bringen aber Abhängigkeit von Cloud, unklare Exporte, fehlende Reisen oder Migrationsrisiken mit. Für viele ist die bessere Antwort nicht alles aufzuzeichnen, sondern die wichtigen Routen zu speichern und portabel zu halten.</p>
     <h2>Der Timeline-Teil: Tagesverlauf</h2><p>Der Tagesverlauf ist die tägliche Erinnerungsansicht. Tippe im Kalender auf einen aufgezeichneten Tag und GPS Logger baut aus gespeicherten Tracks eine virtuelle Timeline: Bewegungen, Stopps, benannte Orte, Bewegungsdistanz, Bewegungszeit und Momente. Es ist eine Ansicht; sie teilt, verändert oder lädt deine Tracks nicht hoch.</p>
     <p>Das macht ihn nützlich für Reisetage, Wanderungen, Außentermine, Stadtspaziergänge, Pendelwege und alltägliche Routenerinnerung: nicht nur eine Linie auf der Karte, sondern die Form des Tages.</p><p>Leg die Fotos des Tages dazu, und sie erscheinen an dem Stopp oder Weg, an dem du sie gemacht hast. Ein Foto ohne GPS findet seinen Platz trotzdem, weil die Zuordnung die Aufnahmezeit nutzt. Die Bilder bleiben in deiner Galerie. Die App behält eine Verknüpfung auf dem Handy, und nichts wird hochgeladen oder verändert.</p>
